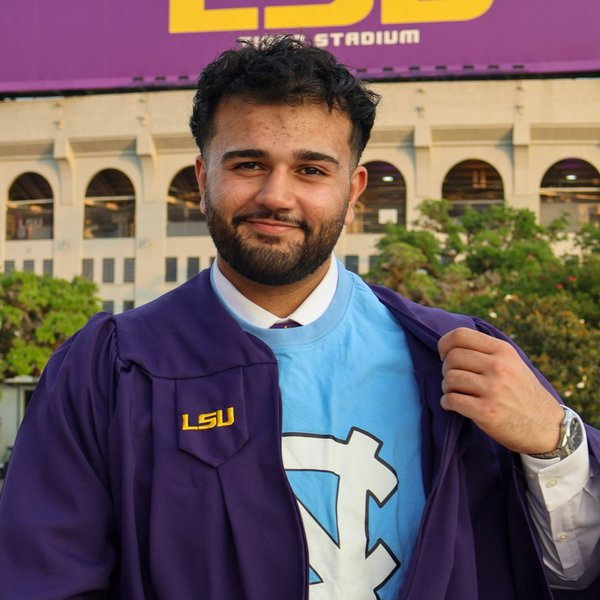
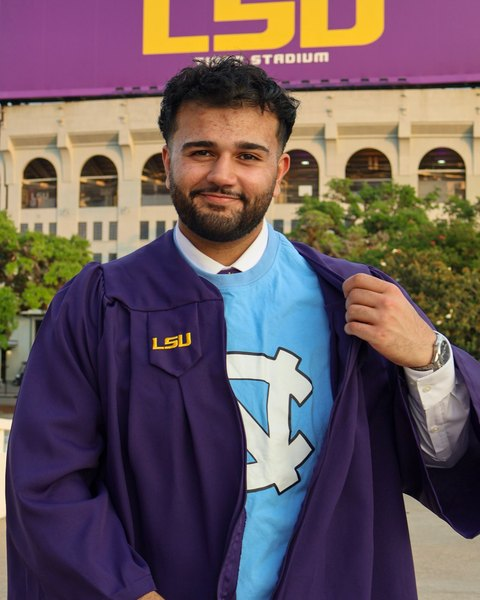
Show profile photo as rounded portrait instead of circle
Claude-Session: https://claude.ai/code/session_017twyoEwfkBdAymNnfBwR9s

diff --git a/site.css b/site.css
@@ -133,7 +133,7 @@ section:first-of-type { border-top: 0; }
 
 /* ---------- Hero ---------- */
 .hero { padding: 64px 0 48px; }
-.hero-grid { display: grid; grid-template-columns: 1fr 168px; gap: 40px; align-items: center; }
+.hero-grid { display: grid; grid-template-columns: 1fr 200px; gap: 40px; align-items: center; }
 .hero h1 { font-size: clamp(32px, 5vw, 42px); font-weight: 700; letter-spacing: -.02em; }
 .hero-role { margin-top: 8px; font-size: 17px; color: var(--text-2); }
 .hero-bio { margin-top: 18px; color: var(--text-2); max-width: 600px; }
@@ -147,7 +147,7 @@ section:first-of-type { border-top: 0; }
 .seeking .dot { width: 7px; height: 7px; border-radius: 50%; background: var(--accent); }
 .hero-links { display: flex; flex-wrap: wrap; gap: 10px; margin-top: 24px; }
 .hero-photo {
-  width: 168px; height: 168px; border-radius: 50%; object-fit: cover; object-position: center;
+  width: 200px; height: 250px; border-radius: 16px; object-fit: cover; object-position: center top;
   border: 1px solid var(--border); box-shadow: var(--shadow);
 }
 
@@ -247,7 +247,7 @@ section:first-of-type { border-top: 0; }
 
   .hero { padding-top: 40px; }
   .hero-grid { grid-template-columns: 1fr; gap: 24px; }
-  .hero-photo { width: 112px; height: 112px; grid-row: 1; }
+  .hero-photo { width: 140px; height: 175px; grid-row: 1; }
 
   .work-item { grid-template-columns: 1fr; gap: 16px; }
   .projects { grid-template-columns: 1fr; }

diff --git a/index.html b/index.html
@@ -92,7 +92,7 @@
             <a class="btn" href="https://github.com/ialam04" target="_blank" rel="noopener"><i class="fab fa-github"></i>GitHub</a>
           </div>
         </div>
-        <img class="hero-photo" src="assets/ibrahim-alam-grad.jpg" alt="Portrait of Ibrahim Alam" width="168" height="168">
+        <img class="hero-photo" src="assets/ibrahim-alam-grad.jpg" alt="Ibrahim Alam in an LSU graduation gown over a UNC shirt, in front of Tiger Stadium" width="200" height="250">
       </div>
     </section>
 
